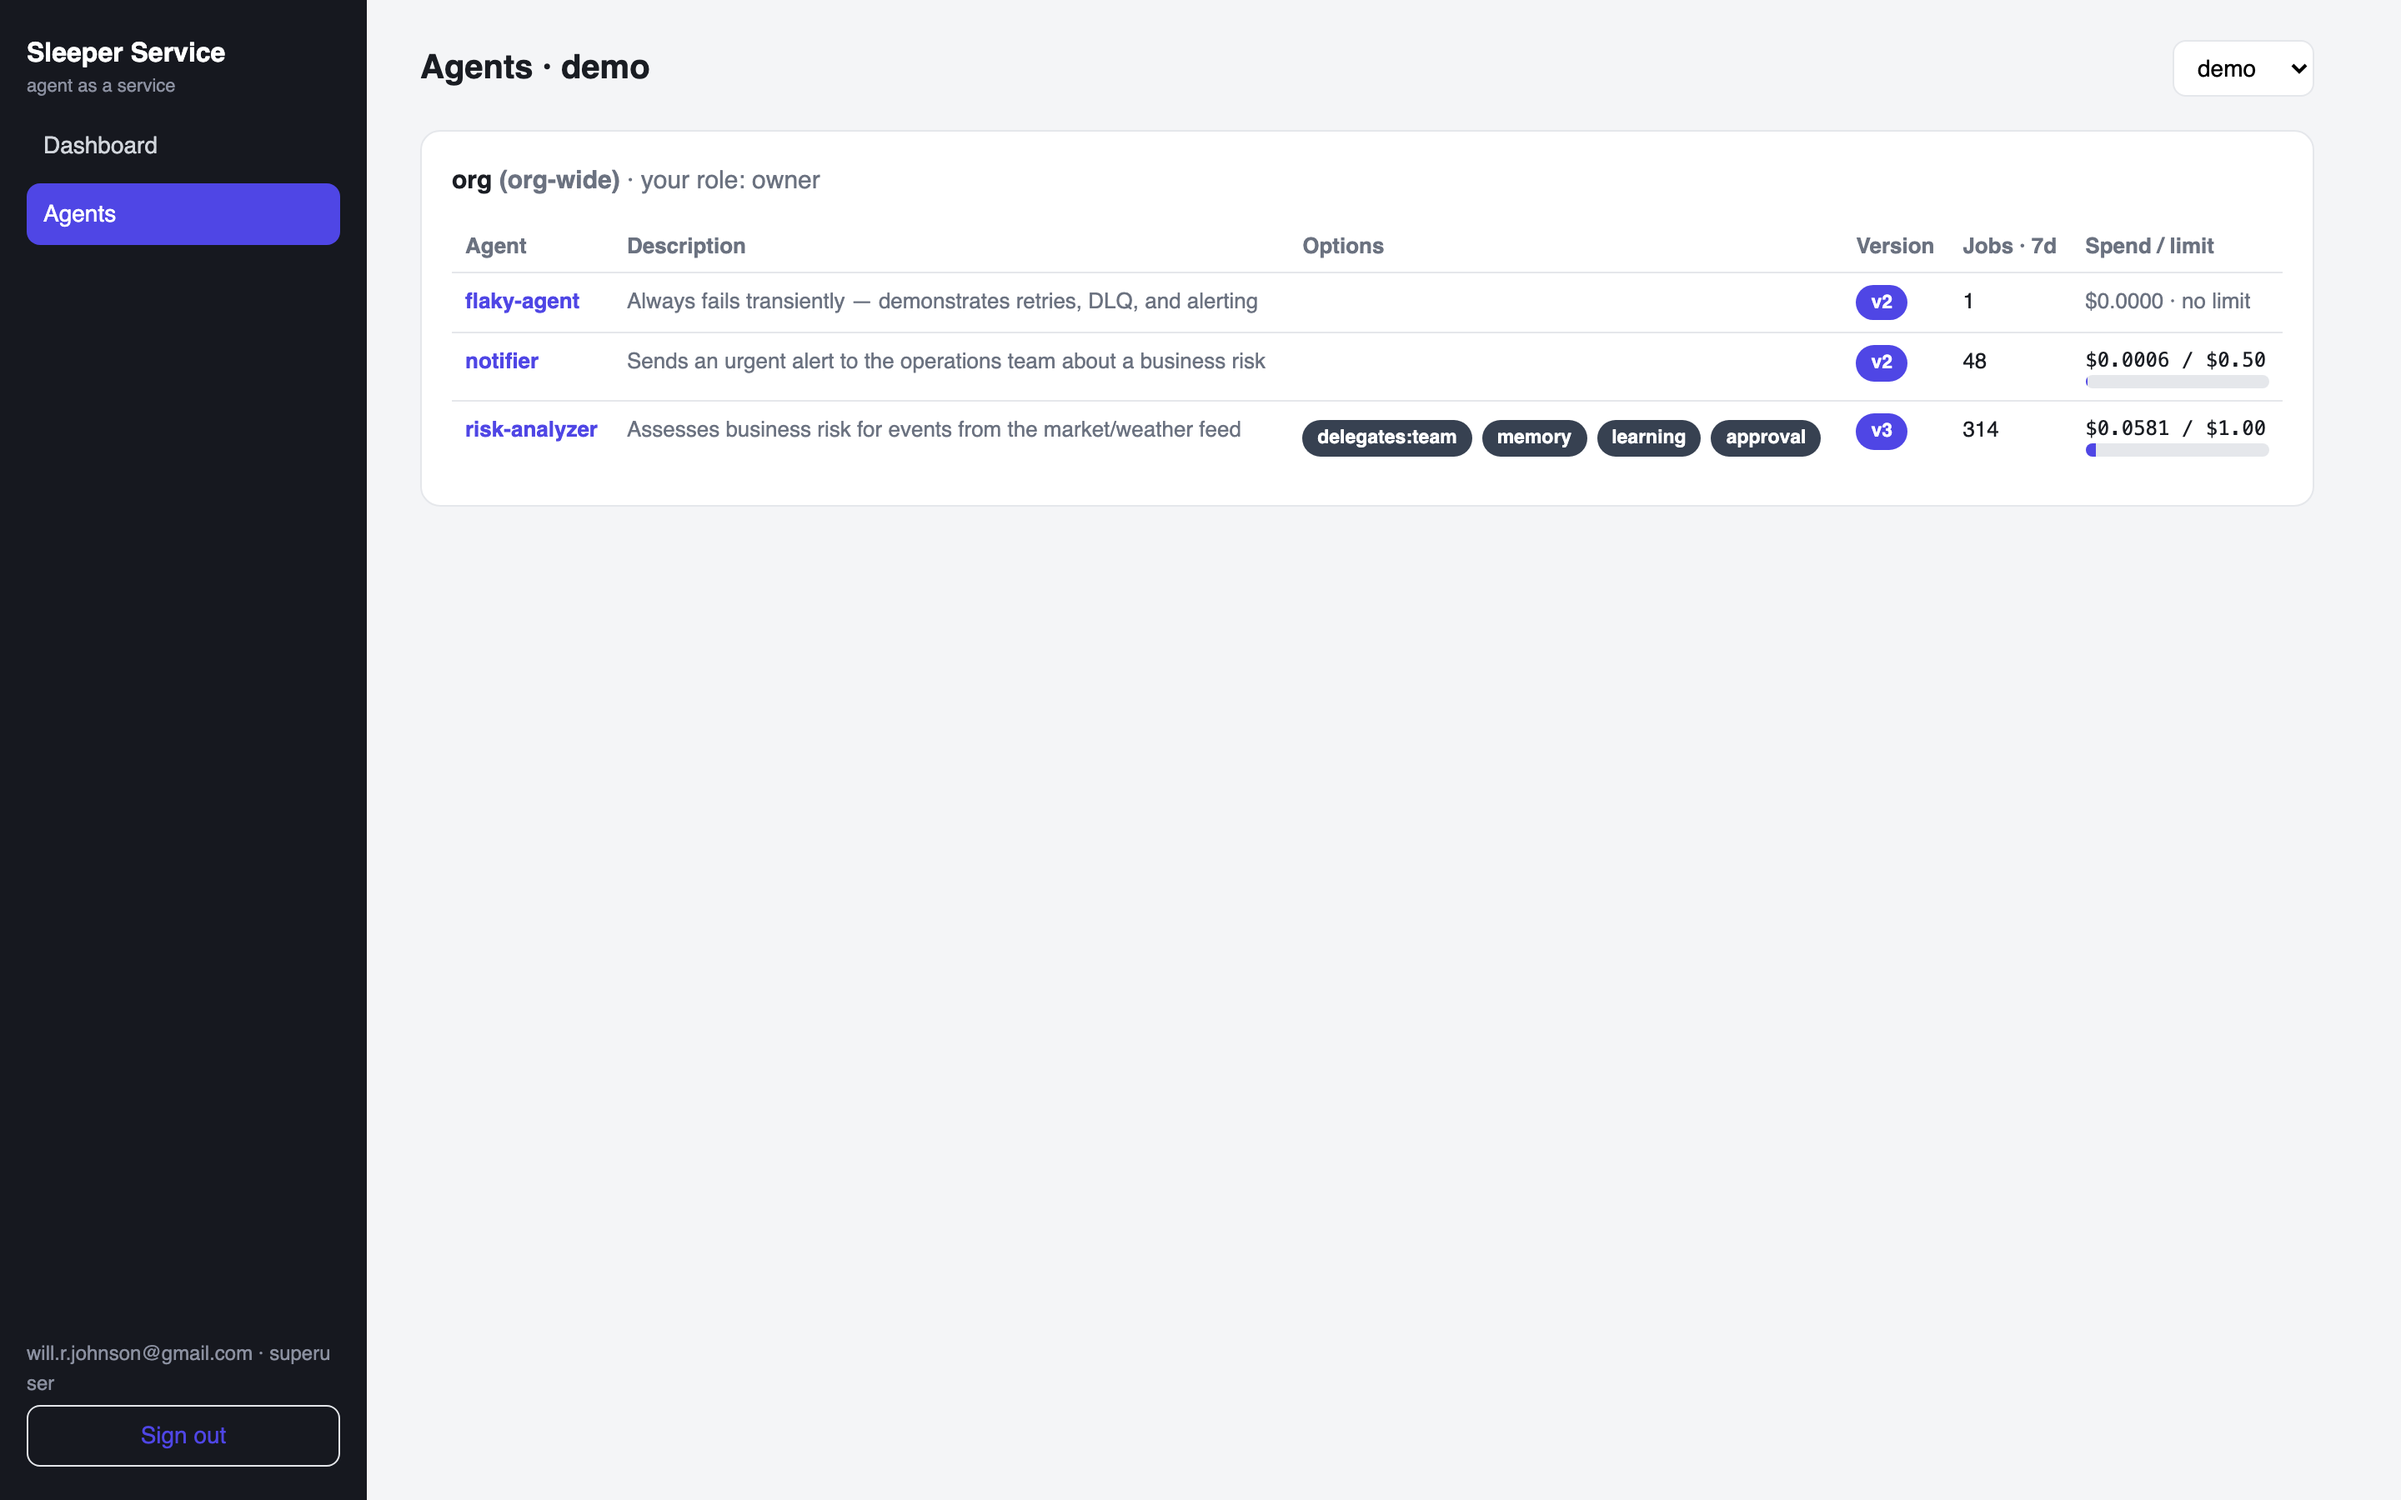
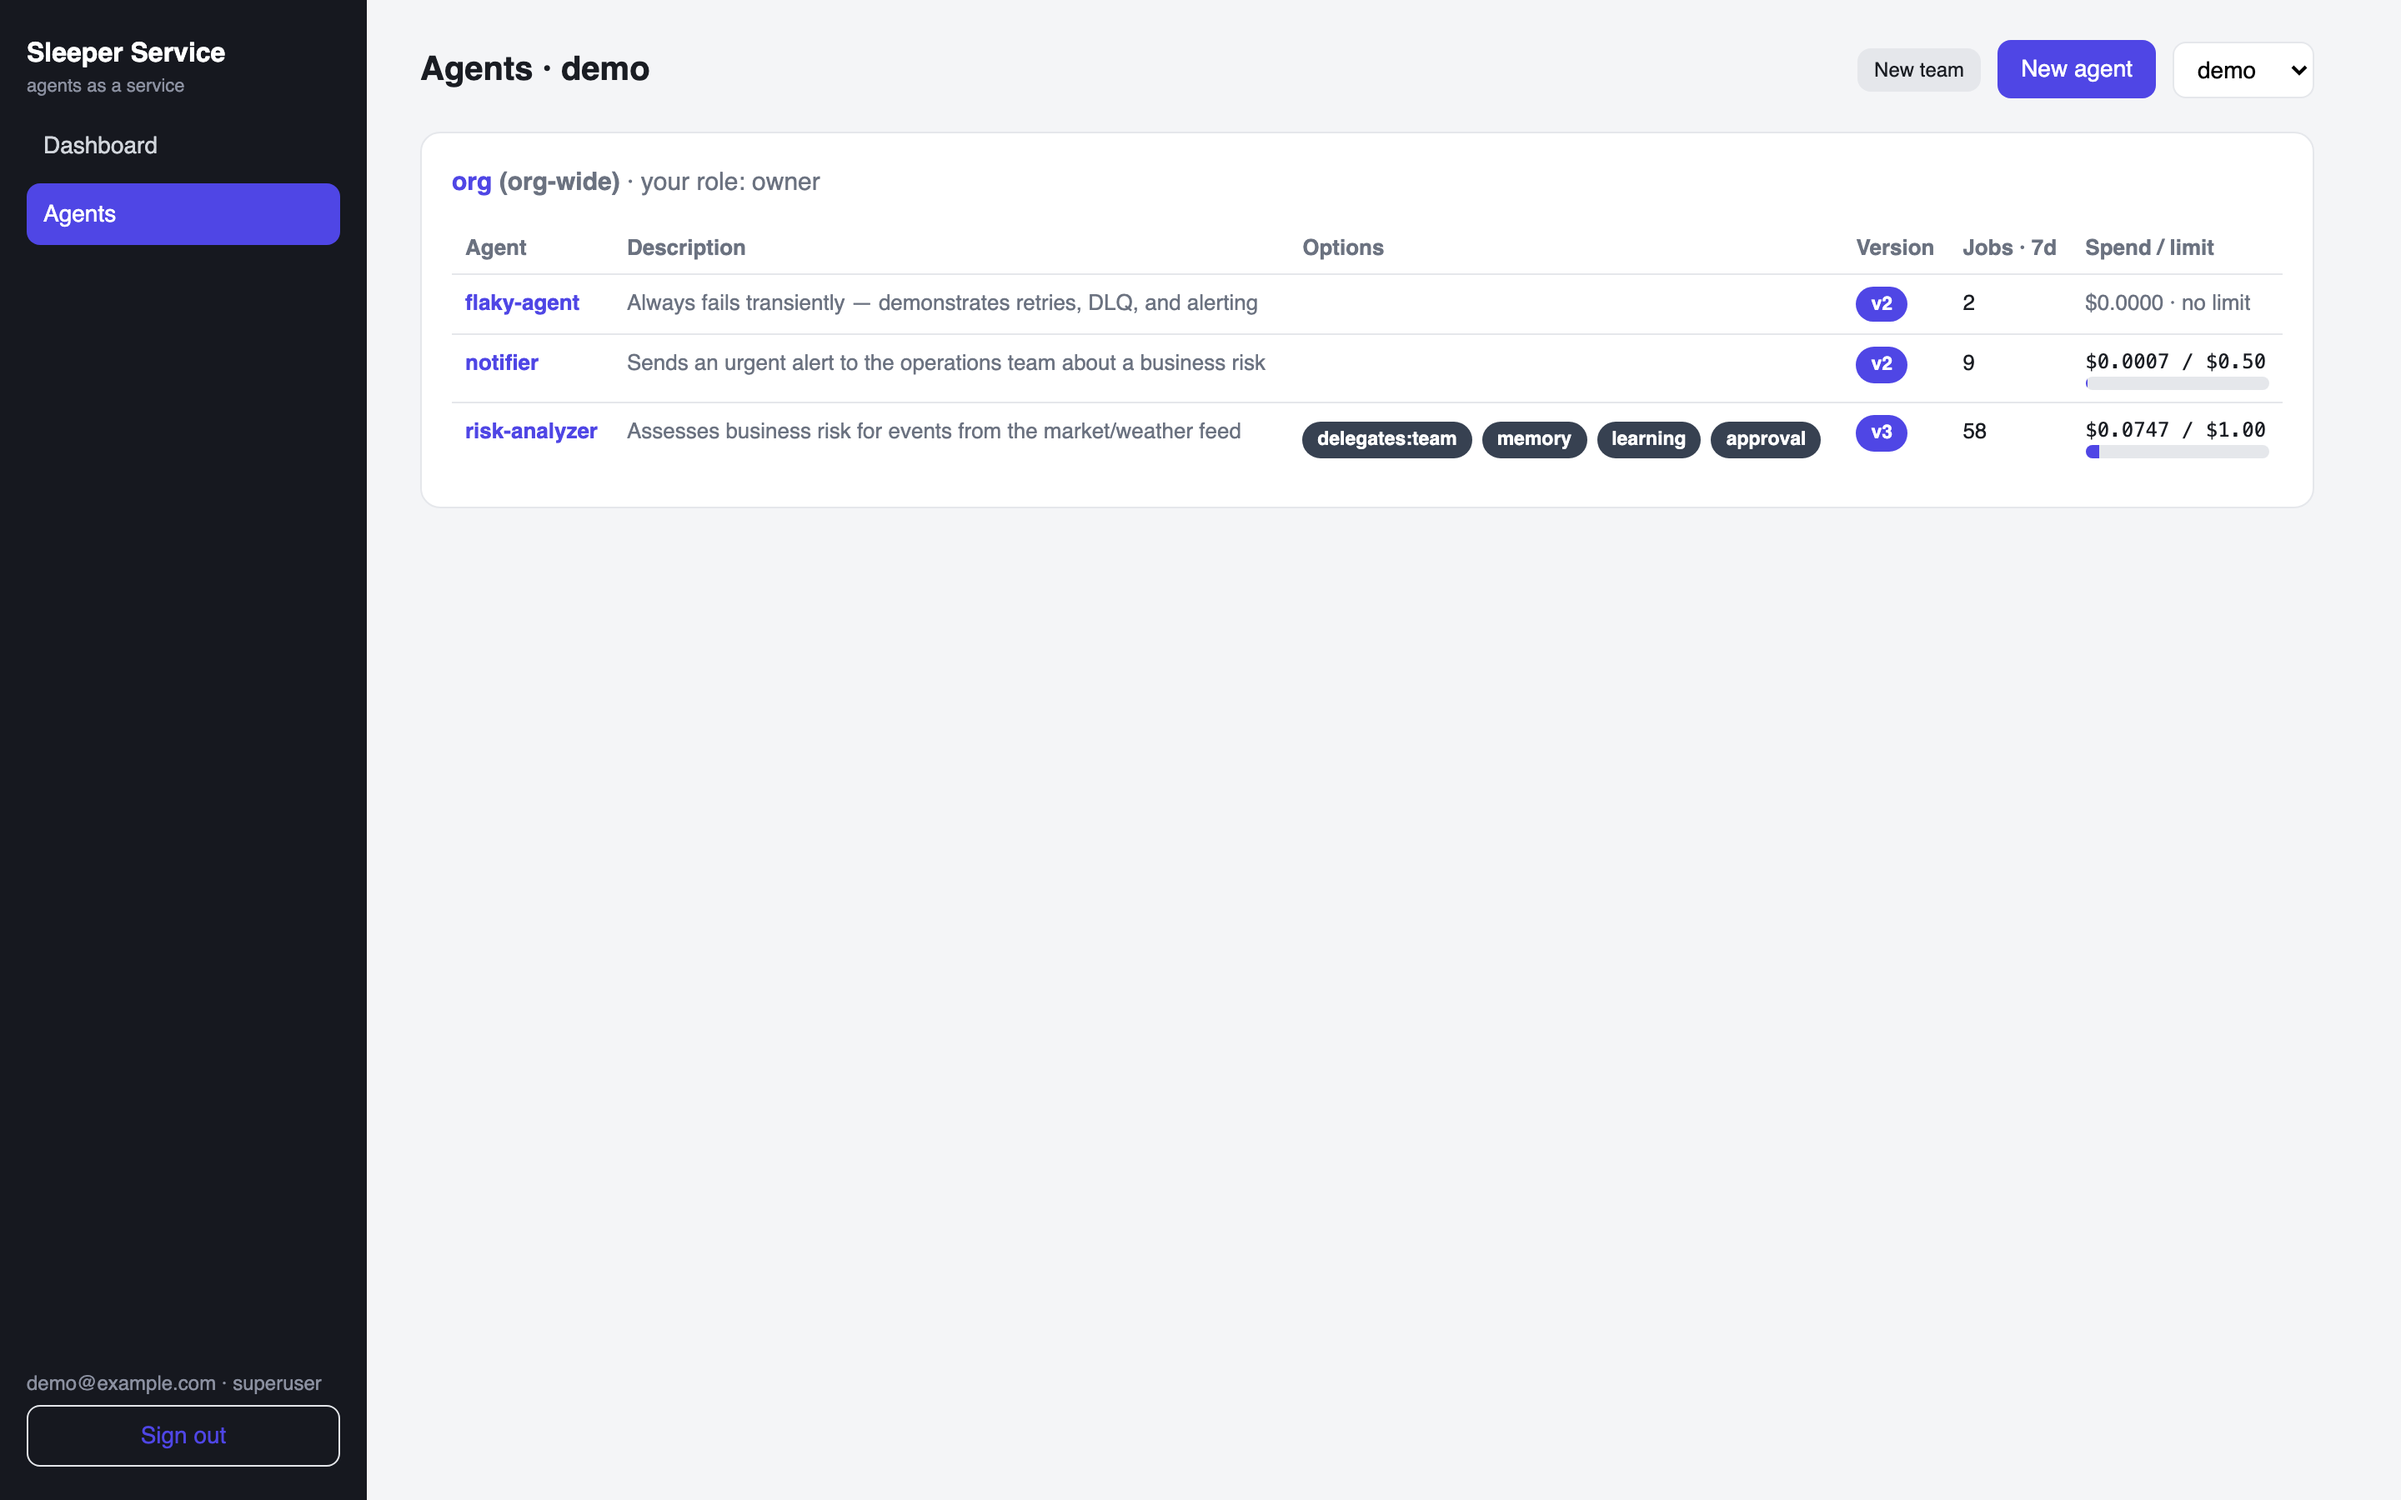
Refresh the README screenshots, and unbreak the script that takes them
The shots were captured on 2026-08-02 and had drifted: no activity
charts or evals panel on the agent page, and the old sidebar tagline on
all four. Retaken against the demo tenant with a day of fresh traffic
behind them, so the charts have something to plot.

They also no longer carry a personal email in the sidebar — this repo is
public, and the login for these is now a throwaway demo account.

screenshots.py had stopped working twice over. Per-tenant SSO landed the
day after the originals were taken and put a second submit button on the
login page, so the button is now named. And wait_for_url waits for a
navigation event rather than checking where the page already is, so a
login that lands before the wait registers hangs until it times out;
polling the location survives both redirects.

diff --git a/scripts/screenshots.py b/scripts/screenshots.py
@@ -34,8 +34,13 @@ def main() -> None:
         page.goto(f"{args.base}/ui/login")
         page.fill("input[name=email]", args.email)
         page.fill("input[name=password]", args.password)
-        page.click("button[type=submit]")
-        page.wait_for_url("**/ui/t/**")
+        # The SSO block below the password form has a submit button of its own,
+        # so name the button rather than matching on type=submit. Waiting on the
+        # settled page instead of a navigation event: login redirects twice
+        # (/ui/login -> /ui -> /ui/t/{id}) and lands before a wait_for_url
+        # registered after the click ever sees it.
+        page.get_by_role("button", name="Sign in").click()
+        page.wait_for_function("() => location.pathname.startsWith('/ui/t/')")
 
         shots = [
             (f"/ui/t/{args.tenant}", "dashboard.png", 1200),
